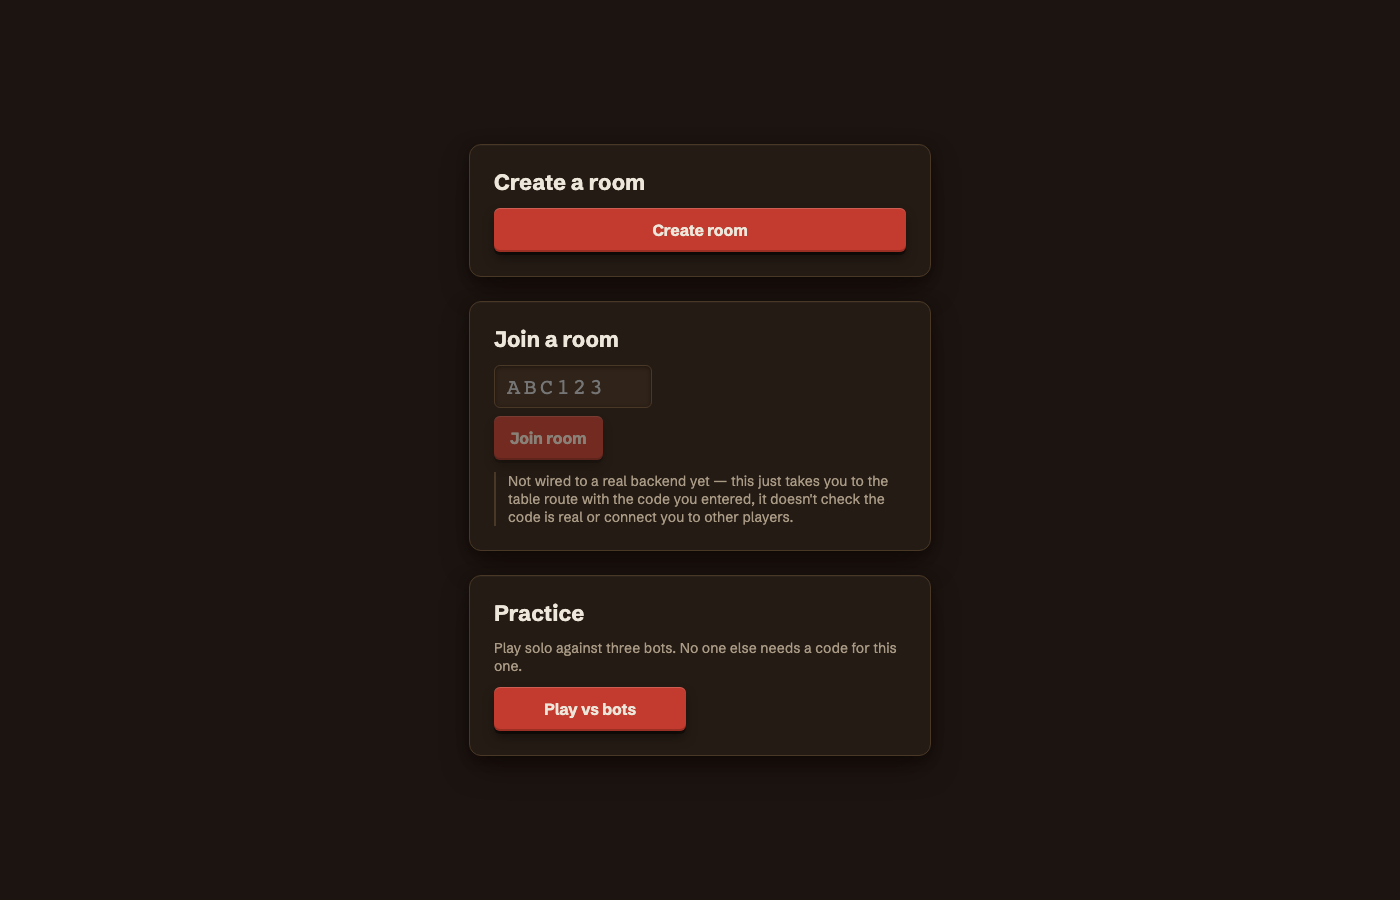
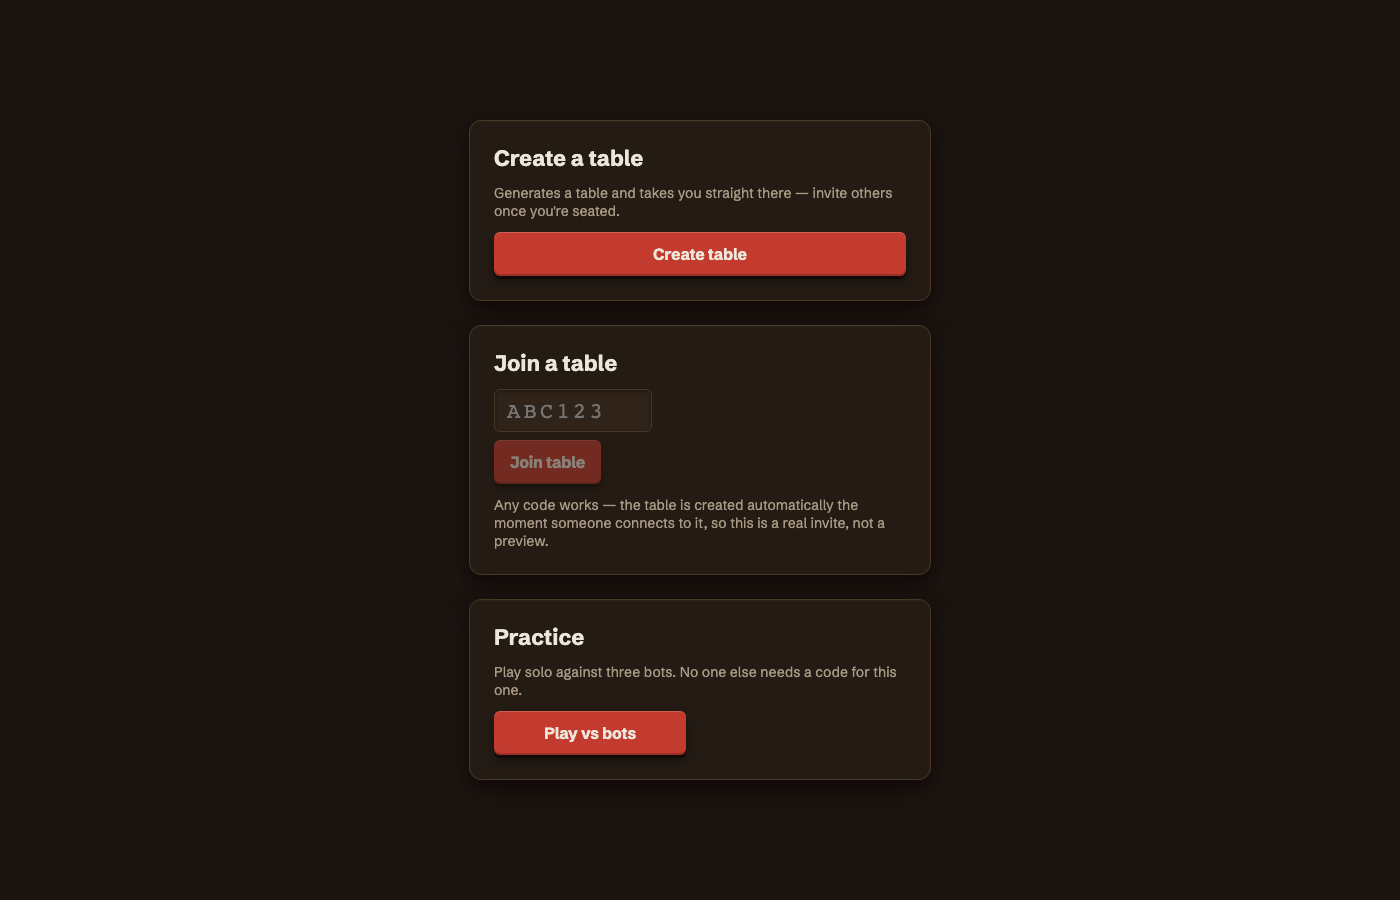
fix(web): drop lobby's stale copy and the create/copy-code step
The lobby's "Create a table" copy still said "there's no room server
yet" / "nobody else can actually join this" and "not wired to a real
backend yet" -- stale from before real multiplayer was wired up
(f84c2b6): the invite code has been a real table id against the real
backend since then. "Create table" now navigates straight to the new
table instead of showing an intermediate code-display/copy step --
the table's own pre-game panel already has a "copy invite link"
button, so showing the code twice was redundant.

Changed region(s): [[0.3379, 0.3733, 0.645, 0.84], [0.3379, 0.1556, 0.645, 0.3422]]

diff --git a/web/src/routes/+page.svelte b/web/src/routes/+page.svelte
@@ -1,9 +1,9 @@
 <script lang="ts">
 	import { goto } from '$app/navigation';
 
-	// invite codes are entirely client-generated mock data (docs/05-roadmap.md §6: v1 lobby is
-	// private-table + invite-code, not a public table list). there is no table API yet (M1 is the
-	// rules engine, M5 is real multiplayer) — this proves the create/join navigation flow only.
+	// invite codes are entirely client-generated (docs/03-frontend.md's "/table/[id] wiring":
+	// `[id]` is a real table id, auto-created against the backend on first WS connect -- no
+	// table-listing API needed), so there is nothing to validate client-side before navigating.
 	const CODE_ALPHABET = 'ABCDEFGHJKLMNPQRSTUVWXYZ23456789'; // no 0/O/1/I — avoids look-alikes
 	const CODE_LENGTH = 6;
 
@@ -15,31 +15,11 @@
 		return code;
 	}
 
-	let hostedCode = $state<string | null>(null);
-	let copied = $state(false);
-	let copyFailed = $state(false);
-
+	// Straight to the table, no intermediate copy-code step: the table's own pre-game panel
+	// already has a "copy invite link" button (docs/03-frontend.md's "Pre-game states"), so
+	// showing the code here too would just be the same one decision rendered twice.
 	function createTable(): void {
-		hostedCode = generateMockCode();
-		copied = false;
-		copyFailed = false;
-	}
-
-	async function copyCode(): Promise<void> {
-		if (!hostedCode) return;
-		try {
-			await navigator.clipboard.writeText(hostedCode);
-			copied = true;
-			copyFailed = false;
-		} catch {
-			copied = false;
-			copyFailed = true;
-		}
-	}
-
-	function enterHostedTable(): void {
-		if (!hostedCode) return;
-		goto(`/table/${hostedCode}`);
+		goto(`/table/${generateMockCode()}`);
 	}
 
 	let joinCode = $state('');
@@ -53,10 +33,10 @@
 
 	// practice mode (docs/05-roadmap.md M4.5): a solo table with seats 1-3 bot-bound from table
 	// creation (`?practice=true` on the WS endpoint -- server/app/ws.py's `ws_endpoint`). No
-	// invite code to share, so this skips the create/copy step entirely -- generate a table id the
-	// same way "create table" does and go straight to the table, tagged so `/table/[id]` knows to
-	// connect in practice mode. `?practice=1` is this route's own query param, translated into
-	// `&practice=true` on the actual WS URL by `/table/[id]` -- the two spellings are unrelated.
+	// invite code to share, so this generates a table id the same way "Create table" does and
+	// goes straight to the table, tagged so `/table/[id]` knows to connect in practice mode.
+	// `?practice=1` is this route's own query param, translated into `&practice=true` on the
+	// actual WS URL by `/table/[id]` -- the two spellings are unrelated.
 	function startPractice(): void {
 		goto(`/table/${generateMockCode()}?practice=1`);
 	}
@@ -65,29 +45,10 @@
 <div class="panels">
 	<section class="panel">
 		<h2>Create a table</h2>
-
-		{#if !hostedCode}
-			<button type="button" class="primary" onclick={createTable}>Create table</button>
-		{:else}
-			<div class="code-display">
-				<span class="code" data-testid="hosted-code">{hostedCode}</span>
-				<button type="button" onclick={copyCode}>{copied ? 'Copied' : 'Copy'}</button>
-			</div>
-			{#if copyFailed}
-				<p class="status status-error">
-					Couldn't copy automatically — select and copy the code above.
-				</p>
-			{/if}
-			<p class="mock-note">
-				Mock code, generated in your browser — there's no table server yet, so nobody else can
-				actually join this. It's here to prove the create → share → enter flow ahead of the real
-				backend (see docs/05-roadmap.md M5).
-			</p>
-			<div class="actions">
-				<button type="button" class="primary" onclick={enterHostedTable}>Enter table</button>
-				<button type="button" onclick={createTable}>New code</button>
-			</div>
-		{/if}
+		<p class="hint">
+			Generates a table and takes you straight there — invite others once you're seated.
+		</p>
+		<button type="button" class="primary" onclick={createTable}>Create table</button>
 	</section>
 
 	<section class="panel">
@@ -105,9 +66,9 @@
 			/>
 			<button type="submit" class="primary" disabled={!joinCodeValid}>Join table</button>
 		</form>
-		<p class="mock-note">
-			Not wired to a real backend yet — this just takes you to the table route with the code you
-			entered, it doesn't check the code is real or connect you to other players.
+		<p class="hint">
+			Any code works — the table is created automatically the moment someone connects to it, so this
+			is a real invite, not a preview.
 		</p>
 	</section>
 
@@ -171,38 +132,6 @@
 		margin: 0;
 		color: var(--color-text-muted);
 		font-size: var(--font-size-sm);
-	}
-
-	.mock-note {
-		margin: 0;
-		font-size: var(--font-size-sm);
-		color: var(--color-text-muted);
-		border-left: 2px solid var(--color-border);
-		padding-left: var(--space-3);
-	}
-
-	.status-error {
-		color: var(--color-status-error);
-	}
-
-	.code-display {
-		display: flex;
-		align-items: center;
-		gap: var(--space-3);
-	}
-
-	.code {
-		font-family: monospace;
-		font-size: var(--font-size-xl);
-		letter-spacing: 0.15em;
-		background: var(--color-surface-raised);
-		border-radius: var(--radius-sm);
-		padding: var(--space-2) var(--space-3);
-	}
-
-	.actions {
-		display: flex;
-		gap: var(--space-3);
 	}
 
 	form {

diff --git a/web/src/routes/page.e2e.ts b/web/src/routes/page.e2e.ts
@@ -6,18 +6,13 @@ test('home page loads and has a title', async ({ page }) => {
 	await expect(page).toHaveTitle(/Mahjong/);
 });
 
-test('lobby create table shows a mock invite code', async ({ page }) => {
+test('lobby create table navigates straight to a freshly generated table', async ({ page }) => {
 	await page.goto('/');
 	// wait past hydration: the create button is server-rendered but its click handler only
 	// attaches once svelte-kit finishes loading, so an immediate click can race it.
 	await page.waitForLoadState('networkidle');
 	await page.getByRole('button', { name: 'Create table' }).click();
 
-	const code = page.getByTestId('hosted-code');
-	await expect(code).toBeVisible();
-	await expect(code).toHaveText(/^[A-Z0-9]{6}$/);
-
-	await page.getByRole('button', { name: 'Enter table' }).click();
 	await expect(page).toHaveURL(/\/table\/[A-Z0-9]{6}$/);
 });
 
